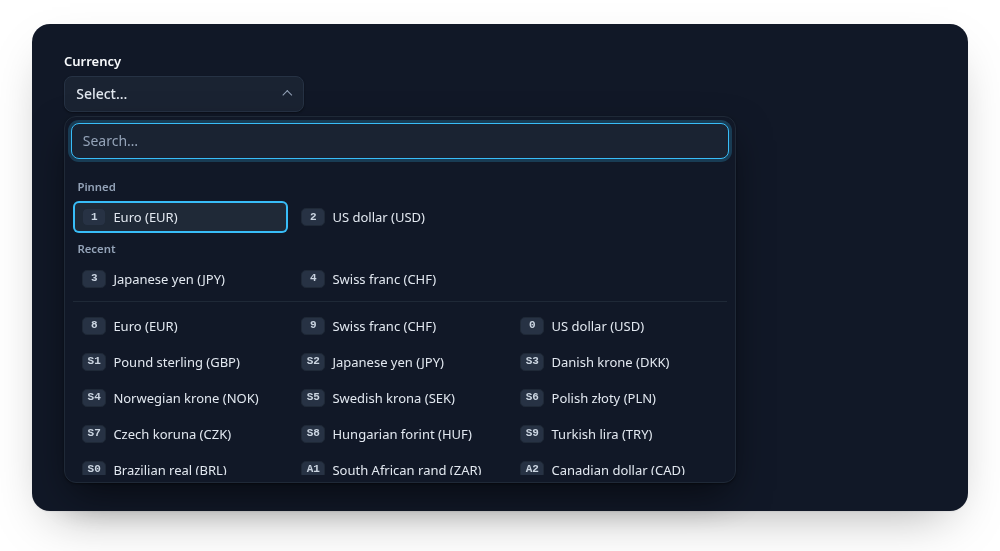
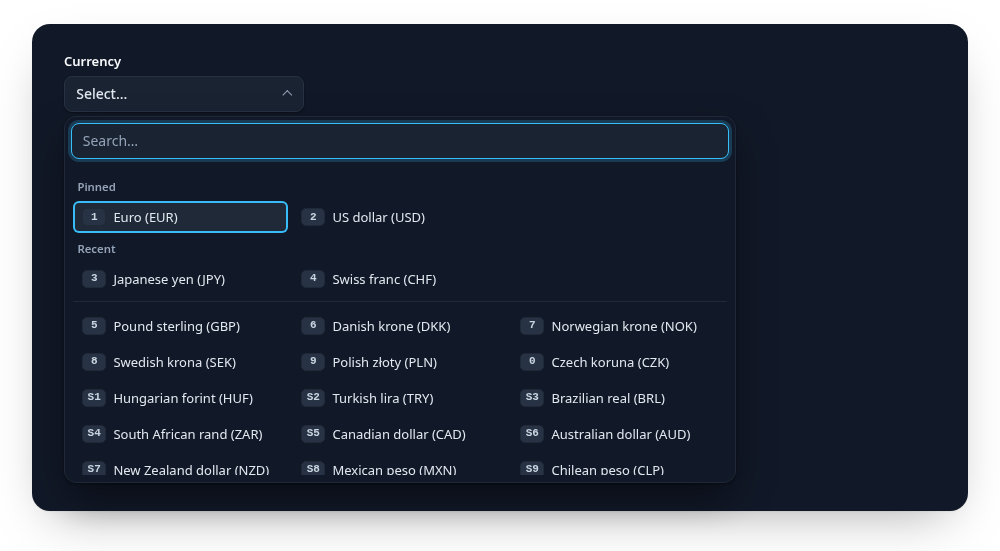
fix: pinned and recent entries leave the list, digits run on without a gap (0.18.1)

diff --git a/test/pinned.test.js b/test/pinned.test.js
@@ -36,12 +36,21 @@ beforeEach(() => {
 });
 
 describe("pinned", () => {
-  it("shows the pinned entries on top in their order, and keeps them in the list", () => {
+  it("shows the pinned entries on top in their order and not again in the list", () => {
     const [w] = mount("", { pinned: ["CHF", "EUR", "XXX"] });
     open(w);
     expect(heads(w)).toEqual(["Pinned"]);
     expect(groupValues(w, "Pinned")).toEqual(["CHF", "EUR"]);
-    expect(visibleItems(w).filter((i) => i.dataset.value === "CHF").length).toBe(2);
+    expect(visibleItems(w).map((i) => i.dataset.value)).toEqual(["CHF", "EUR", ...CODES.filter((c) => c !== "CHF" && c !== "EUR")]);
+  });
+
+  it("finds pinned entries in the list while searching", () => {
+    const [w] = mount("", { pinned: ["CHF"] });
+    open(w);
+    type(w, "chf");
+    const found = visibleItems(w);
+    expect(found.map((i) => i.dataset.value)).toEqual(["CHF"]);
+    expect(found[0].closest("[data-gridselect-top]")).toBeNull();
   });
 
   it("reads data-pinned and pinnedText, and shows nothing without valid values", () => {
@@ -53,13 +62,16 @@ describe("pinned", () => {
     expect(heads(w)).toEqual([]);
   });
 
-  it("picking a pinned copy checks the input and marks both copies", () => {
+  it("picking a pinned entry checks the input; the cursor then starts on it", () => {
     const [w, gs] = mount("", { pinned: ["CHF"] });
     open(w);
     w.querySelector('[data-gridselect-group] [data-value="CHF"]').click();
     expect(gs.value).toBe("CHF");
     open(w);
-    expect([...w.querySelectorAll('[data-value="CHF"]')].map((i) => i.getAttribute("aria-selected"))).toEqual(["true", "true"]);
+    const cur = w.querySelector("[data-cursor]");
+    expect(cur.dataset.value).toBe("CHF");
+    expect(cur.getAttribute("aria-selected")).toBe("true");
+    expect(cur.closest("[data-gridselect-top]")).not.toBeNull();
   });
 
   it("has no top area at or below the threshold", () => {
@@ -138,26 +150,22 @@ describe("recent", () => {
 });
 
 describe("digits, search and keys", () => {
-  it("numbers the top from 1 and starts the list after the reserved places", () => {
+  it("numbers top and list in one run, without gaps", () => {
     localStorage.setItem("gridselect-recent:cur", JSON.stringify(["GBP"]));
     const [w, gs] = mount("", { pinned: ["CHF"], recent: "cur", recentMax: 3 });
     open(w);
     const items = visibleItems(w);
-    expect(items.slice(0, 2).map(badge)).toEqual(["1", "2"]);
-    expect(badge(items[2])).toBe("5"); // first list entry after 1 pinned + 3 reserved recent places
-    expect(items[2].dataset.value).toBe("EUR");
+    expect(items.slice(0, 4).map((i) => [i.dataset.value, badge(i)])).toEqual([["CHF", "1"], ["GBP", "2"], ["EUR", "3"], ["USD", "4"]]);
     digit(w, 2);
     expect(gs.value).toBe("GBP");
     open(w);
-    digit(w, 5);
+    digit(w, 3);
     expect(gs.value).toBe("EUR");
-    open(w);
-    digit(w, 4);
-    expect(gs.value).toBe("EUR"); // recent now holds EUR and GBP: place 4 is reserved and empty, nothing happens
-    expect(w.querySelector("[data-gridselect-panel]").hidden).toBe(false);
+    open(w); // recent: EUR, GBP
+    expect(visibleItems(w).slice(0, 4).map((i) => [i.dataset.value, badge(i)])).toEqual([["CHF", "1"], ["EUR", "2"], ["GBP", "3"], ["USD", "4"]]);
   });
 
-  it("hides the top while searching; filter renumbers, highlight keeps the numbers", () => {
+  it("hides the top while searching and numbers the whole list from 1", () => {
     let [w] = mount("", { pinned: ["CHF", "EUR"] });
     open(w);
     type(w, "u");
@@ -165,11 +173,10 @@ describe("digits, search and keys", () => {
     expect(badge(visibleItems(w)[0])).toBe("1");
     [w] = mount('data-search="highlight"', { pinned: ["CHF", "EUR"] });
     open(w);
-    const before = badge(visibleItems(w).find((i) => i.dataset.value === "USD" && !i.closest("[data-gridselect-group]")));
+    expect(visibleItems(w).map((i) => i.dataset.value).slice(0, 3)).toEqual(["CHF", "EUR", "USD"]);
     type(w, "usd");
     expect(heads(w)).toEqual([]);
-    expect(badge(visibleItems(w).find((i) => i.dataset.value === "USD"))).toBe(before);
-    expect(before).toBe("5");
+    expect(visibleItems(w).map((i) => [i.dataset.value, badge(i)]).slice(0, 3)).toEqual([["EUR", "1"], ["CHF", "2"], ["USD", "3"]]);
   });
 
   it("arrow keys reach the top and cross into the list; the cursor starts on the chosen list entry", () => {
@@ -183,7 +190,7 @@ describe("digits, search and keys", () => {
     expect(cur().closest("[data-gridselect-group]")).not.toBeNull();
     key(w, "ArrowRight");
     key(w, "ArrowRight");
-    expect(cur().dataset.value).toBe("EUR");
+    expect(cur().dataset.value).toBe("USD");
     expect(cur().closest("[data-gridselect-group]")).toBeNull();
   });
 });

diff --git a/src/gridselect.js b/src/gridselect.js
@@ -1010,8 +1010,11 @@ function createPanel(wrapper, radios, opts, tiers, fallbackLabel, beforeOpen, mu
     item.scrollIntoView?.({ block: "nearest" });
   }
 
-  /** Cursor on the selected item if it is shown, else on the first one. */
-  const cursorToSelection = () => setCursor(Math.max(0, order.indexOf(radios.findIndex((r) => r.checked))));
+  /** Cursor on the selected entry (on top or in the list), else on the first one. */
+  const cursorToSelection = () => {
+    const r = radios.findIndex((x) => x.checked);
+    setCursor(Math.max(0, order.findIndex((j) => radioOf[j] === r)));
+  };
 
   // filter: non-matches hidden, label-start matches first. highlight: everything stays, matches
   // and non-matches get marked. An empty query restores the plain list in both modes.
@@ -1041,9 +1044,11 @@ function createPanel(wrapper, radios, opts, tiers, fallbackLabel, beforeOpen, mu
       matched = [...starts, ...contains, ...described];
     }
     const isMatch = new Set(matched);
-    const all = radios.map((_, i) => i);
-    // Top places only without a query, and only those with an entry.
+    // Top places only without a query, and only those with an entry. Their entries then leave the
+    // list, so nothing shows twice; while searching the list has everything again.
     const top = query ? [] : tops.filter((j) => !items[j].hasAttribute("data-empty"));
+    const onTop = new Set(top.map((j) => radioOf[j]));
+    const all = radios.map((_, i) => i).filter((i) => !onTop.has(i));
     if (highlight) {
       const firstMatch = all.find((i) => isMatch.has(i));
       items.forEach((item, i) => {
@@ -1068,6 +1073,7 @@ function createPanel(wrapper, radios, opts, tiers, fallbackLabel, beforeOpen, mu
     }
     for (const sec of topSections) setHidden(sec, !!query || sec.hasAttribute("data-empty"));
     for (const j of tops) setHidden(items[j], !top.includes(j));
+    if (highlight) radios.forEach((_, i) => setHidden(items[i], onTop.has(i)));
     renumber();
     // Last, so a throwing resultsText from the page cannot stop the filtering above.
     const count = matched.length;
@@ -1080,19 +1086,12 @@ function createPanel(wrapper, radios, opts, tiers, fallbackLabel, beforeOpen, mu
   });
   search.addEventListener("change", (e) => e.stopPropagation());
 
-  /** @type {number[]} item index per digit position */
-  let byPos = [];
-  // Digits follow the display order: visible matches in filter mode, fixed positions otherwise.
-  // Top places keep 0..n-1 (empty recent places included), the list starts after them.
+  // Digits follow the display order: top entries, then the list, in one run.
   function renumber() {
     if (!tiers.length) return;
     /** @type {number[]} display position per item, -1 when not shown */
     const posOf = items.map(() => -1);
-    const filtering = !!search.value.trim() && !highlight;
-    let next = filtering ? 0 : tops.length;
-    for (const i of order) posOf[i] = i < radios.length ? next++ : tops.indexOf(i);
-    byPos = [];
-    posOf.forEach((pos, i) => pos >= 0 && (byPos[pos] = i));
+    order.forEach((i, pos) => (posOf[i] = pos));
     items.forEach((item, i) => {
       const pos = posOf[i];
       const sc = pos < 0 ? null : shortcutAt(tiers, pos);
@@ -1214,7 +1213,7 @@ function createPanel(wrapper, radios, opts, tiers, fallbackLabel, beforeOpen, mu
     const pos = tiers.length ? positionOf(tiers, e) : -1;
     if (pos >= 0) {
       e.preventDefault();
-      if (byPos[pos] !== undefined) pick(byPos[pos]);
+      if (order[pos] !== undefined) pick(order[pos]);
       return;
     }
     /** @type {Record<string, () => number>} */

diff --git a/e2e/pinned.e2e.js b/e2e/pinned.e2e.js
@@ -26,7 +26,7 @@ test("pinned on top, a pick shows up under Recent after reopening, also after a 
 test("the list starts on a new row below the top groups, arrow down crosses into it", async ({ page }) => {
   await field(page).click();
   const pinned = page.locator("#pinned [data-gridselect-group] [data-gridselect-item]:visible");
-  const firstList = page.locator("#pinned [data-gridselect-section] [data-gridselect-item]").first();
+  const firstList = page.locator("#pinned [data-gridselect-section] [data-gridselect-item]:visible").first();
   const bottom = Math.max(...(await pinned.evaluateAll((els) => els.map((e) => e.getBoundingClientRect().bottom))));
   expect((await firstList.boundingBox()).y).toBeGreaterThanOrEqual(bottom - 1);
   await page.keyboard.press("ArrowLeft"); // cursor starts on the chosen entry or the first one

diff --git a/README.md b/README.md
@@ -54,7 +54,7 @@ daily can rely on positions. The matches (Danish and Norwegian krone) are marked
 cursor jumps to the first match, all other entries are dimmed. Entries 11 to 20 are picked with
 Shift and a digit (S1 to S0).</sub>
 
-**Status:** version 0.18.0, early development. Published on npm as
+**Status:** version 0.18.1, early development. Published on npm as
 `@emmgeede/gridselect`, because npm treats the plain name `gridselect` as too
 similar to an older package. Versions
 follow [Semantic Versioning](https://semver.org/). See
@@ -530,19 +530,19 @@ gridselect(el, { pinned: ["EUR", "USD"], recent: "currency" });
 
 <a href="https://gridselect.im/demo/">
 <picture>
-  <source media="(prefers-color-scheme: dark)" srcset="https://raw.githubusercontent.com/emmgeede/gridselect/main/assets/pinned-dark.png?v=1">
-  <img src="https://raw.githubusercontent.com/emmgeede/gridselect/main/assets/pinned-light.png?v=1" width="100%" alt="A currency panel with a Pinned group (Euro, US dollar, digits 1 and 2) and a Recent group (Japanese yen, Swiss franc, digits 3 and 4) above the full list, which starts at digit 8.">
+  <source media="(prefers-color-scheme: dark)" srcset="https://raw.githubusercontent.com/emmgeede/gridselect/main/assets/pinned-dark.png?v=2">
+  <img src="https://raw.githubusercontent.com/emmgeede/gridselect/main/assets/pinned-light.png?v=2" width="100%" alt="A currency panel with a Pinned group (Euro, US dollar, digits 1 and 2) and a Recent group (Japanese yen, Swiss franc, digits 3 and 4) above the remaining list, which goes on with digit 5.">
 </picture>
 </a>
 
-<sub><b>Pinned and recent.</b> Two pinned entries, two recent picks. Five places are reserved for recent picks, so the full list always starts at the same digit.</sub>
+<sub><b>Pinned and recent.</b> Two pinned entries, two recent picks, then the rest of the list. The digits run on without a gap.</sub>
 
 - Both appear as groups ("Pinned", "Recent", change with `pinnedText` and
-  `recentText`) above the list, and the entries stay in the list too, so
-  positions there never change.
-- Digits start at 1 on top. Recent always reserves `recentMax` places
-  (default 5), so the list's digits do not move when the recent picks change.
-- While you type, the top groups are hidden and nothing appears twice.
+  `recentText`) above the list. Entries shown on top leave the list, so
+  nothing appears twice.
+- Digits run on from the top into the list without a gap.
+- While you type, the top groups are hidden and the list holds every entry
+  again, so pinned and recent entries can be found like any other.
 - `recent` is off unless you set a storage key. GridSelect then keeps up to
   `recentMax` values in `localStorage` under `gridselect-recent:<key>`, only
   values that exist in the list, newest first. If storage is blocked, recent

diff --git a/CHANGELOG.md b/CHANGELOG.md
@@ -12,6 +12,15 @@ and breaking changes need a new major version.
 
 ## [Unreleased]
 
+## [0.18.1] - 2026-11-02
+
+### Changed
+
+- Pinned and recent entries no longer show a second time in the list below,
+  and the digits run on from the top into the list without a gap (no
+  reserved places for recent picks). While searching, the top groups are
+  hidden and the list holds every entry again.
+
 ## [0.18.0] - 2026-11-02
 
 ### Added
@@ -342,7 +351,8 @@ and breaking changes need a new major version.
   radios with different names. Warning for duplicate values.
 - TypeScript declarations generated from JSDoc.
 
-[Unreleased]: https://github.com/emmgeede/gridselect/compare/v0.18.0...HEAD
+[Unreleased]: https://github.com/emmgeede/gridselect/compare/v0.18.1...HEAD
+[0.18.1]: https://github.com/emmgeede/gridselect/compare/v0.18.0...v0.18.1
 [0.18.0]: https://github.com/emmgeede/gridselect/compare/v0.17.0...v0.18.0
 [0.17.0]: https://github.com/emmgeede/gridselect/compare/v0.16.0...v0.17.0
 [0.16.0]: https://github.com/emmgeede/gridselect/compare/v0.15.0...v0.16.0
